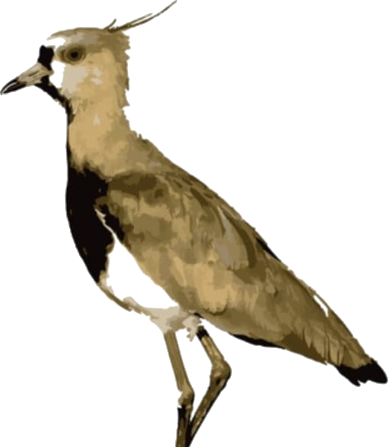
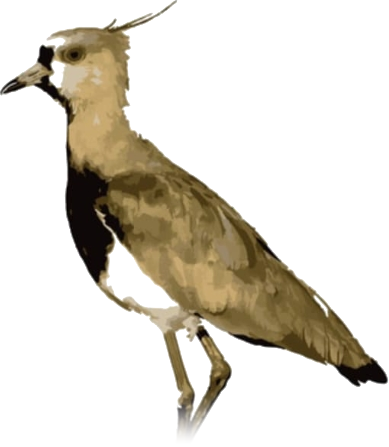
feat(cabins): add Loica photos and fix cut bird illustrations
Loica photos come from PR #3, renamed to the cabanas/<slug>/ layout.
Cometocino and Zarapito illustrations are re-extracted complete from
the catalog; the remaining ones fade out where the source is cut.

Claude-Session: https://claude.ai/code/session_01JTYW6J4GZfytwjM8orw21J

Changed region(s): [[0.4319, 0.8725, 0.5553, 1.0]]

diff --git a/src/data/imagenes.ts b/src/data/imagenes.ts
@@ -9,6 +9,11 @@ import piscina from '../assets/fotos/piscina.jpg';
 import juegos from '../assets/fotos/juegos.jpg';
 import quincho from '../assets/fotos/quincho.jpg';
 import logo from '../assets/logo.png';
+import loicaDormitorio from '../assets/cabanas/loica/dormitorio.jpg';
+import loicaBalcon from '../assets/cabanas/loica/balcon.jpg';
+import loicaBarra from '../assets/cabanas/loica/barra.jpg';
+import loicaEntrada from '../assets/cabanas/loica/entrada.jpg';
+import loicaVista from '../assets/cabanas/loica/vista.jpg';
 import queltehueDormitorio from '../assets/cabanas/queltehue/dormitorio.jpg';
 import queltehueCocina from '../assets/cabanas/queltehue/cocina.jpg';
 import queltehueEntrada from '../assets/cabanas/queltehue/entrada.jpg';
@@ -41,8 +46,15 @@ export const AVES: Record<string, ImageMetadata | undefined> = { loica, queltehu
 /** `pos` es el object-position CSS que mantiene a la vista lo importante cuando la foto vertical se recorta. */
 export type FotoCabana = { src: ImageMetadata; alt: string; pos?: string };
 
-/** Fotos por cabaña, en orden: la primera es la portada. Las cabañas sin fotos muestran un recuadro de reemplazo. */
+/** Fotos por cabaña, en orden: la primera es la portada. */
 export const FOTOS_CABANA: Record<string, FotoCabana[]> = {
+  loica: [
+    { src: loicaDormitorio, alt: 'Dormitorio matrimonial con techo de madera y ventanas altas', pos: '50% 60%' },
+    { src: loicaBalcon, alt: 'Dormitorio con televisor y puerta al balcón' },
+    { src: loicaBarra, alt: 'Barra de madera para comer junto a la ventana y la cocina' },
+    { src: loicaEntrada, alt: 'Puerta de madera con el letrero de la Cabaña Loica' },
+    { src: loicaVista, alt: 'Vista desde el balcón hacia el jardín y los pinos' },
+  ],
   queltehue: [
     { src: queltehueDormitorio, alt: 'Dormitorio matrimonial con cielo de madera y ventanal al balcón' },
     { src: queltehueCocina, alt: 'Cocina con cubierta de madera, barra con dos banquetas y ventana con cortina roja' },
